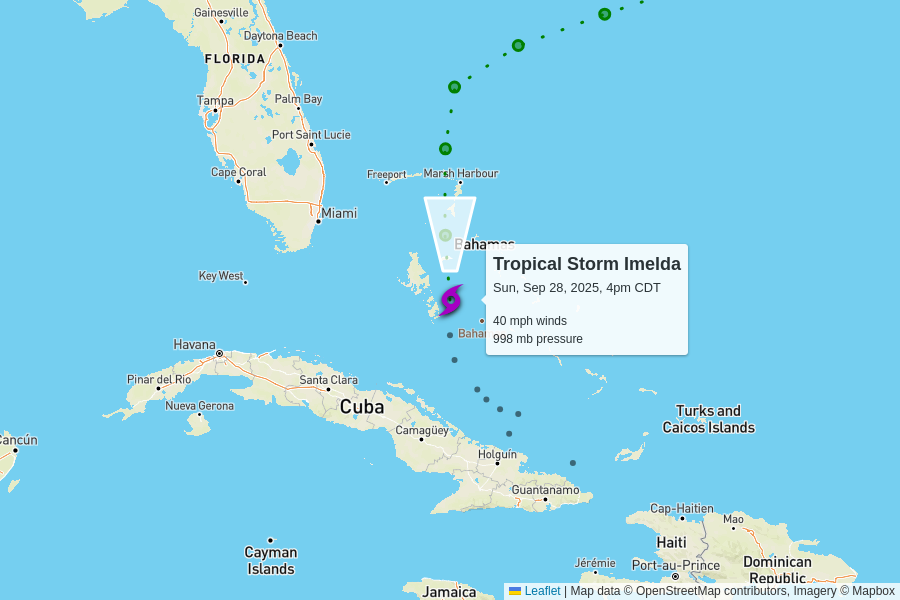
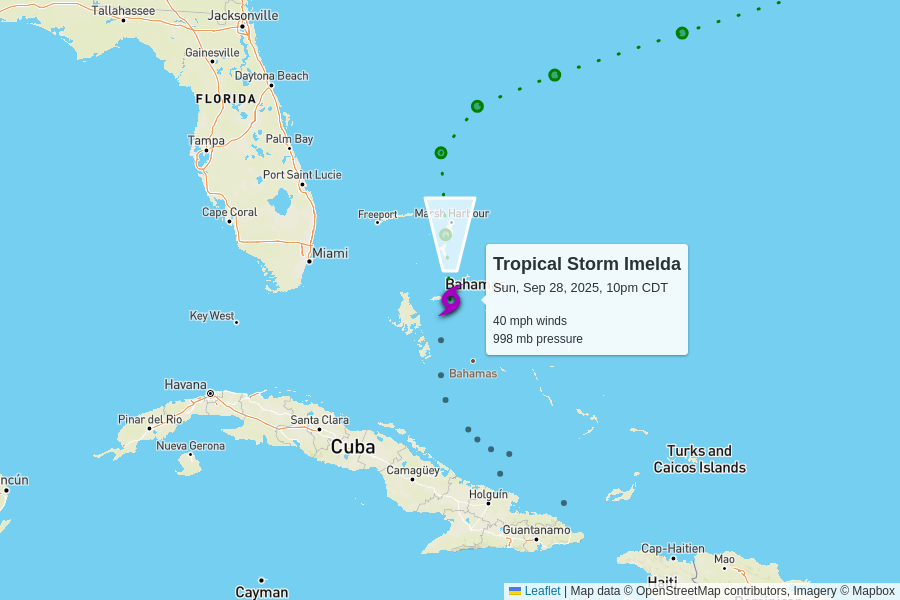
automatic update

diff --git a/docs/index.html b/docs/index.html
@@ -101,54 +101,10 @@
 
     <table>
       <tr>
-        <td colspan="6" class="storm category-4" >
-          <h2>
-            Hurricane Humberto - Category 4
-            <p class="updated">last updated <span data-time>2025-09-28T21:00:00.000Z</span></p>
-          </h2>
-        </td>
-      </tr>
-      
-      <tr>
-        <th class="spacer"></th>
-        <th>wind speed</th>
-        <th>central pressure</th>
-        <th>movement</th>
-        <th>data (CSV)</th>
-        <th>National Hurricane Center</th>
-      </tr>
-      <tr>
-        <td class="spacer"></td>
-        <td>145 mph<br>-5 mph since last update</td>
-        <td>937 mb<br>+3 mb since last update</td>
-        <td>
-          13 mph to the northwest
-          <br/>
-          <span style="display: inline-block; font-size: 1.5em; transform: rotate(305deg);">↑</span>
-        </td>
-        <td><a href="https://raw.githubusercontent.com/mgwalker/atlantic-hurricanes/main/data/csv/AL082025.csv">AL082025.csv</a></td>
-        <td><a href="https://www.nhc.noaa.gov/archive/2025/HUMBERTO.shtml?">NHC advisories</a></td>
-      </tr>
-      <tr id="storm_AL082025" >
-        <td class="spacer">
-        <td colspan="5">
-          <figure>
-            <img src="AL082025.png">
-            <figcaption>
-              Map data &copy; <a href="https://www.openstreetmap.org/copyright">OpenStreetMap</a> contributors,
-              Imagery &copy; <a href="https://www.mapbox.com/">Mapbox</a> |
-              <a href="https://www.mapbox.com/map-feedback/" target="_blank">Improve this map</a>
-            </figcaption>
-          </figure>
-        </td>
-      </tr>
-      
-
-      <tr>
         <td colspan="6" class="storm category-0" >
           <h2>
             Tropical Storm Imelda
-            <p class="updated">last updated <span data-time>2025-09-28T21:00:00.000Z</span></p>
+            <p class="updated">last updated <span data-time>2025-09-29T03:00:00.000Z</span></p>
           </h2>
         </td>
       </tr>
@@ -163,8 +119,8 @@
       </tr>
       <tr>
         <td class="spacer"></td>
-        <td>40 mph<br>+5 mph since last update</td>
-        <td>998 mb<br>-4 mb since last update</td>
+        <td>40 mph<br>0 mph since last update</td>
+        <td>998 mb<br>0 mb since last update</td>
         <td>
           9 mph to the north
           <br/>
@@ -178,6 +134,50 @@
         <td colspan="5">
           <figure>
             <img src="AL092025.png">
+            <figcaption>
+              Map data &copy; <a href="https://www.openstreetmap.org/copyright">OpenStreetMap</a> contributors,
+              Imagery &copy; <a href="https://www.mapbox.com/">Mapbox</a> |
+              <a href="https://www.mapbox.com/map-feedback/" target="_blank">Improve this map</a>
+            </figcaption>
+          </figure>
+        </td>
+      </tr>
+      
+
+      <tr>
+        <td colspan="6" class="storm category-4" >
+          <h2>
+            Hurricane Humberto - Category 4
+            <p class="updated">last updated <span data-time>2025-09-29T03:00:00.000Z</span></p>
+          </h2>
+        </td>
+      </tr>
+      
+      <tr>
+        <th class="spacer"></th>
+        <th>wind speed</th>
+        <th>central pressure</th>
+        <th>movement</th>
+        <th>data (CSV)</th>
+        <th>National Hurricane Center</th>
+      </tr>
+      <tr>
+        <td class="spacer"></td>
+        <td>140 mph<br>-5 mph since last update</td>
+        <td>928 mb<br>-9 mb since last update</td>
+        <td>
+          14 mph to the northwest
+          <br/>
+          <span style="display: inline-block; font-size: 1.5em; transform: rotate(310deg);">↑</span>
+        </td>
+        <td><a href="https://raw.githubusercontent.com/mgwalker/atlantic-hurricanes/main/data/csv/AL082025.csv">AL082025.csv</a></td>
+        <td><a href="https://www.nhc.noaa.gov/archive/2025/HUMBERTO.shtml?">NHC advisories</a></td>
+      </tr>
+      <tr id="storm_AL082025" >
+        <td class="spacer">
+        <td colspan="5">
+          <figure>
+            <img src="AL082025.png">
             <figcaption>
               Map data &copy; <a href="https://www.openstreetmap.org/copyright">OpenStreetMap</a> contributors,
               Imagery &copy; <a href="https://www.mapbox.com/">Mapbox</a> |
